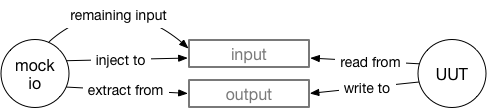
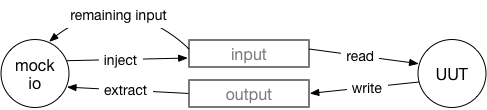
doc: better wording for drawing

diff --git a/README.md b/README.md
@@ -72,7 +72,7 @@ See also the first tests in `mock_io_test.erl` that show how to use `mock_io` fr
 
 Uses semantic versioning.
 
-### Design
+### Data flows
 
 ![flows of mock_io](priv/mock_io.png)
 
